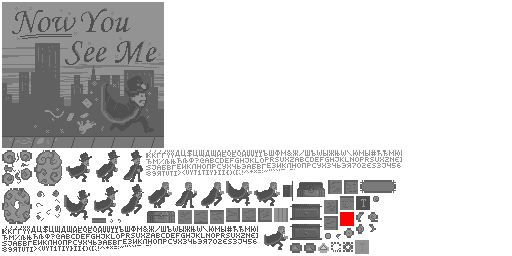
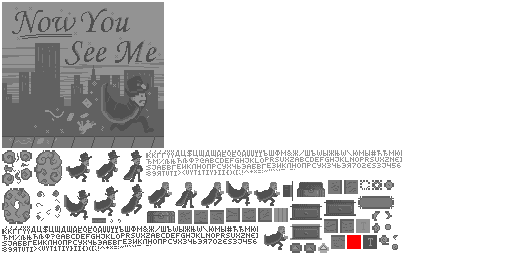
3rd state for interactable objects

Changed region(s): [[0.5625, 0.6875, 0.7812, 1.0]]

diff --git a/Assets/Resources/Scripts/Objects/Chest.cs b/Assets/Resources/Scripts/Objects/Chest.cs
@@ -6,43 +6,42 @@ using UnityEngine;
 
 public class Chest : InteractableObject
 {
-    FAnimatedSprite chestSprite;
 
     public Chest(Vector2 pos) : base()
     {
+        X_INTERACT_DIST = 24;
         this.SetPosition(pos);
-        chestSprite = new FAnimatedSprite("MagicChest/magicChest");
-        chestSprite.addAnimation(new FAnimation("inactive", new int[] { 1 }, 100, false));
-        chestSprite.addAnimation(new FAnimation("active", new int[] { 2 }, 100, false));
-        chestSprite.addAnimation(new FAnimation("spawnPlayer", new int[] { 1,2,1,2,1,2,1 }, 100, false));
-        this.AddChild(chestSprite);
+        interactSprite = new FAnimatedSprite("MagicChest/magicChest");
+        interactSprite.addAnimation(new FAnimation("interactable", new int[] { 1 }, 100, false));
+        interactSprite.addAnimation(new FAnimation("uninteractable", new int[] { 2 }, 100, false));
+        interactSprite.addAnimation(new FAnimation("hover", new int[] { 2 }, 100, false));
+        interactSprite.addAnimation(new FAnimation("spawnPlayer", new int[] { 1, 2, 1, 2, 1, 2, 1 }, 100, false));
+        this.AddChild(interactSprite);
     }
 
     public void deactivate()
     {
         interactable = true;
-        chestSprite.play("inactive", true);
     }
 
     public void activate()
     {
         interactable = false;
-        chestSprite.play("active", true);
     }
 
     public void spawnPlayer()
     {
         C.isSpawning = true;
         Futile.instance.SignalUpdate += Update;
-        chestSprite.play("spawnPlayer", true);
+        interactSprite.play("spawnPlayer", true);
     }
 
     private void Update()
     {
-        if (chestSprite.IsStopped)
+        if (interactSprite.IsStopped)
         {
             C.isSpawning = false;
-            chestSprite.play("active", true);
+            interactSprite.play("uninteractable", true);
             Futile.instance.SignalUpdate -= Update;
         }
     }

diff --git a/Assets/Resources/Scripts/Objects/Container.cs b/Assets/Resources/Scripts/Objects/Container.cs
@@ -7,16 +7,18 @@ using UnityEngine;
 public class Container : InteractableObject
 {
     private int money;
-    private FAnimatedSprite containerSprite;
+
     public Container(Vector2 pos, int type, int money)
     {
         this.X_INTERACT_DIST = 24;
         this.SetPosition(pos);
         this.money = money;
-        containerSprite = new FAnimatedSprite("Containers/container" + type);
-        containerSprite.addAnimation(new FAnimation("unopened", new int[] { 1 }, 100, true));
-        containerSprite.addAnimation(new FAnimation("opened", new int[] { 2 }, 100, true));
-        this.AddChild(containerSprite);
+        interactSprite = new FAnimatedSprite("Containers/container" + type);
+        interactSprite.addAnimation(new FAnimation("interactable", new int[] { 1 }, 100, true));
+        interactSprite.addAnimation(new FAnimation("uninteractable", new int[] { 2 }, 100, true));
+        interactSprite.addAnimation(new FAnimation("hover", new int[] { 3 }, 100, true));
+
+        this.AddChild(interactSprite);
     }
     float particleXSpeed = 30;
     float particleYSpeed = 30;
@@ -35,6 +37,7 @@ public class Container : InteractableObject
             particle.activate(pos, new Vector2(RXRandom.Float() * particleXSpeed * 2 - particleXSpeed, RXRandom.Float() * particleYSpeed * 2 - particleYSpeed), Vector2.zero, 360);
             this.container.AddChild(particle);
         }
+        interactSprite.play("uninteractable");
 
     }
 }

diff --git a/Assets/Resources/Scripts/Objects/InteractableObject.cs b/Assets/Resources/Scripts/Objects/InteractableObject.cs
@@ -5,7 +5,8 @@ using System.Text;
 
 public abstract class InteractableObject : FContainer
 {
-    
+
+    protected FAnimatedSprite interactSprite;
     protected float X_INTERACT_DIST = 50;
     protected float Y_INTERACT_DIST = 10;
     const float MIN_INTERACT_DIST = 20;
@@ -26,14 +27,19 @@ public abstract class InteractableObject : FContainer
             y - Y_INTERACT_DIST < p.y &&
             y + Y_INTERACT_DIST > p.y)
         {
+            interactSprite.play("hover");
             p.setInteractObject(this);
             return true;
         }
-        else  
+        else
+        {
+            interactSprite.play("interactable");
             return false;
+        }
         
     }
 
     public abstract void interact(Player p);
+
 }
 

diff --git a/Assets/Resources/Scripts/World.cs b/Assets/Resources/Scripts/World.cs
@@ -145,7 +145,7 @@ public class World : FContainer
     {
         bool foundObject = false;
         for (int x = 0; x < interactObjectList.Count; x++)
-            foundObject = foundObject || interactObjectList[x].checkInteractDist(player);
+            foundObject = interactObjectList[x].checkInteractDist(player) || foundObject;
         //If we made it this far then 
         if(!foundObject)
             player.clearInteractable();

diff --git a/Assets/Resources/Scripts/Player/Player.cs b/Assets/Resources/Scripts/Player/Player.cs
@@ -165,6 +165,9 @@ public class Player : FContainer
 
     public void respawn()
     {
+        yMove = 0;
+        xMove = 0;
+        isGrounded = true;
         VanishCloud cloud = new VanishCloud();
         cloud.SetPosition(this.GetPosition());
         this.container.AddChild(cloud);
